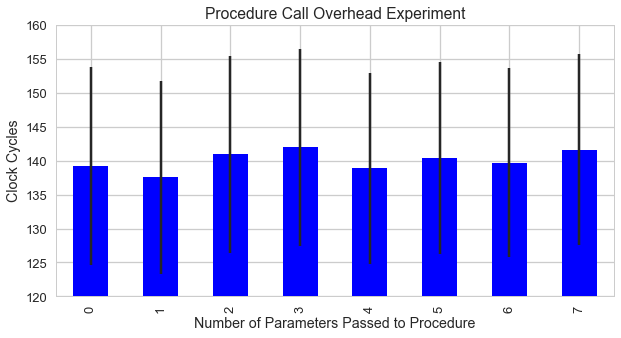
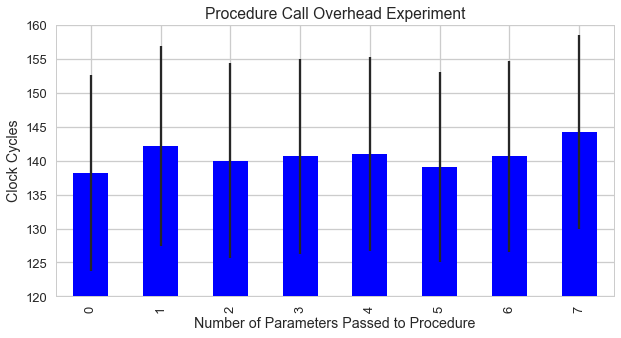
Improve procedure overhead code and results

diff --git a/procedure_call_overhead.c b/procedure_call_overhead.c
@@ -17,13 +17,29 @@
 #include "utils.c"
 
 
-void procedure_call_n_args(int n, ...) {
-    return;
-}
+void procedure_call_seven_args(int one, int two, int three, int four, int five, int six, int seven) {return;}
 
-void procedure_call_zero_args() {
-    return;
-}
+
+void procedure_call_six_args(int one, int two, int three, int four, int five, int six) {return;}
+
+
+void procedure_call_five_args(int one, int two, int three, int four, int five) {return;}
+
+
+void procedure_call_four_args(int one, int two, int three, int four) {return;}
+
+
+void procedure_call_three_args(int one, int two, int three) {return;}
+
+
+void procedure_call_two_args(int one, int two) {return;}
+
+
+void procedure_call_one_args(int one) {return;}
+
+
+void procedure_call_zero_args() {return;}
+
 
 // Run all experiments for a particular procedure
 void run_experiments(int nparams, uint64_t experiments, uint64_t iterations) {
@@ -46,37 +62,37 @@ void run_experiments(int nparams, uint64_t experiments, uint64_t iterations) {
                 break;
             case 1:
                 strt = rdtsc();
-                procedure_call_n_args(0);
+                procedure_call_one_args(1);
                 end = rdtsc();
                 break;
             case 2:
                 strt = rdtsc();
-                procedure_call_n_args(1, 0);
+                procedure_call_two_args(1, 2);
                 end = rdtsc();
                 break;
             case 3:
                 strt = rdtsc();
-                procedure_call_n_args(2, 0, 0);
+                procedure_call_three_args(1, 2, 3);
                 end = rdtsc();
                 break;
             case 4:
                 strt = rdtsc();
-                procedure_call_n_args(3, 0, 0, 0);
+                procedure_call_four_args(1, 2, 3, 4);
                 end = rdtsc();
                 break;
             case 5:
                 strt = rdtsc();
-                procedure_call_n_args(4, 0, 0, 0, 0);
+                procedure_call_five_args(1, 2, 3, 4, 5);
                 end = rdtsc();
                 break;
             case 6:
                 strt = rdtsc();
-                procedure_call_n_args(5, 0, 0, 0, 0, 0);
+                procedure_call_six_args(1, 2, 3, 4, 5, 6);
                 end = rdtsc();
                 break;
             case 7:
                 strt = rdtsc();
-                procedure_call_n_args(6, 0, 0, 0, 0, 0, 0);
+                procedure_call_seven_args(1, 2, 3, 4, 5, 6, 7);
                 end = rdtsc();
                 break;
             }
@@ -110,6 +126,6 @@ void run(uint64_t experiments, uint64_t iterations) {
 // int main() {
 //     printf("================================");
 //     printf("\nProcedure Call Overhead Experiments.\n");
-//     run();
+//     run(10, 10000000);
 //     return 0;
 // }
